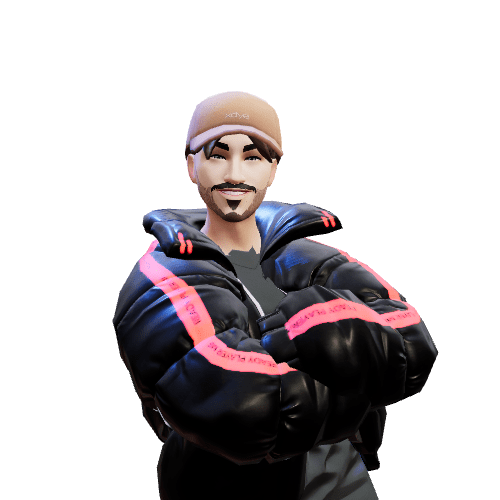
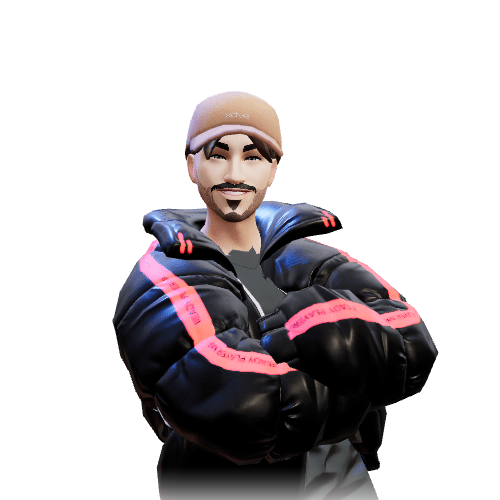
att

Changed region(s): [[0.3, 0.93, 0.78, 1.0]]

diff --git a/style.css b/style.css
@@ -396,7 +396,7 @@ h1 {
 .img-bx img {
   width: 40%;
   right: -1%;
-  top: 100px;
+  bottom: 0;
   
   position: absolute;
 }
@@ -725,6 +725,7 @@ h1 {
     display: block;
     z-index: -1;
     justify-content: center;
+    bottom: 20%;
   }
   .img-avatar img{
     margin: 0 auto;
